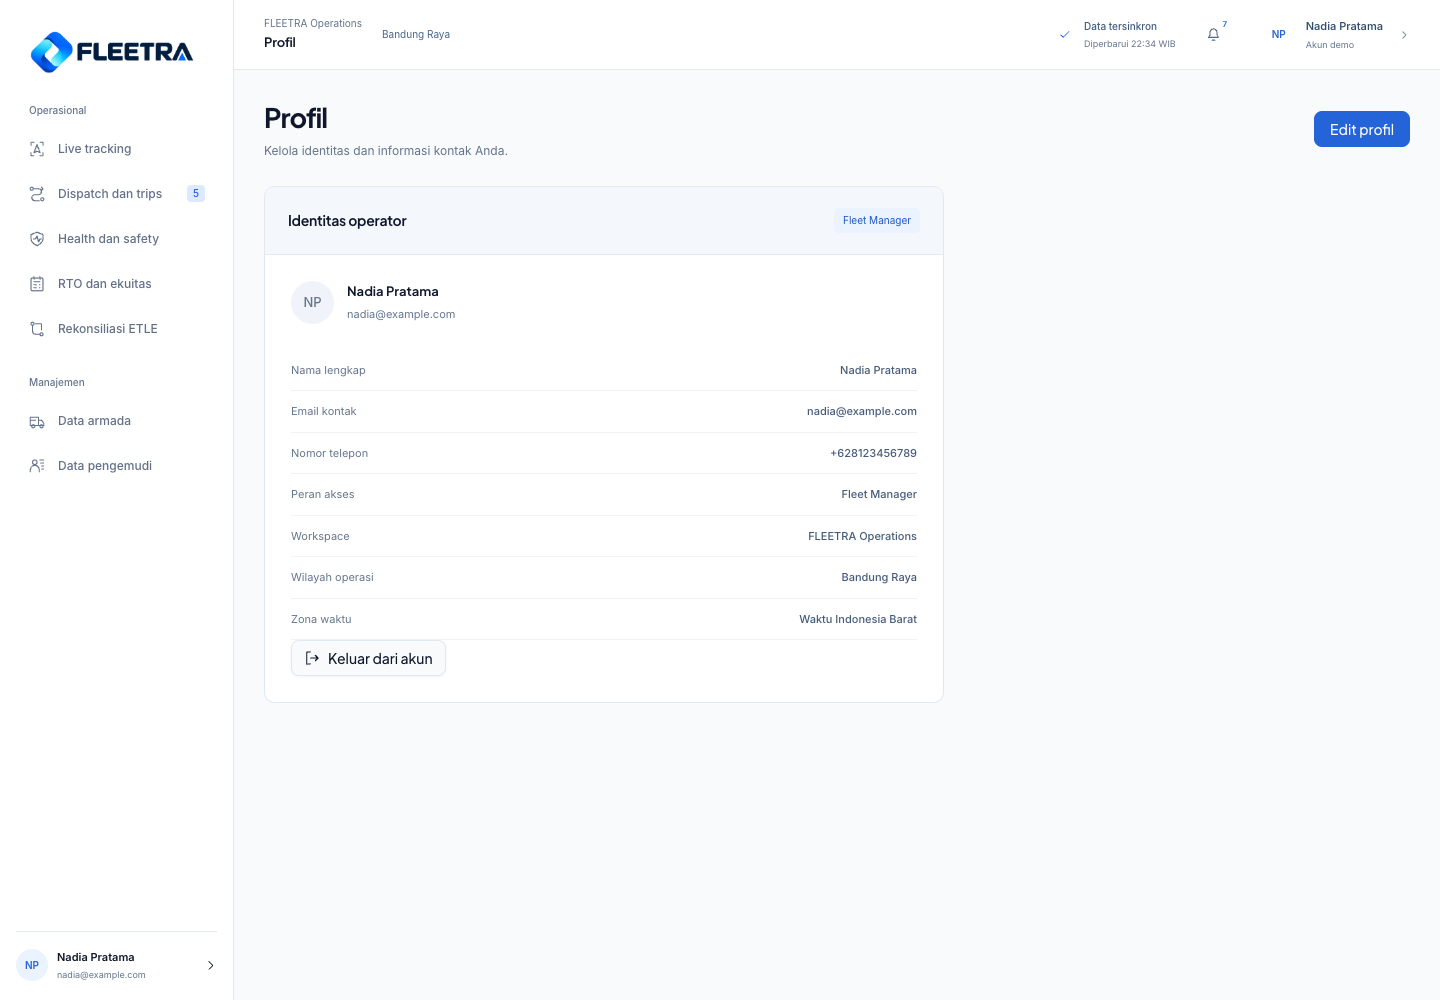
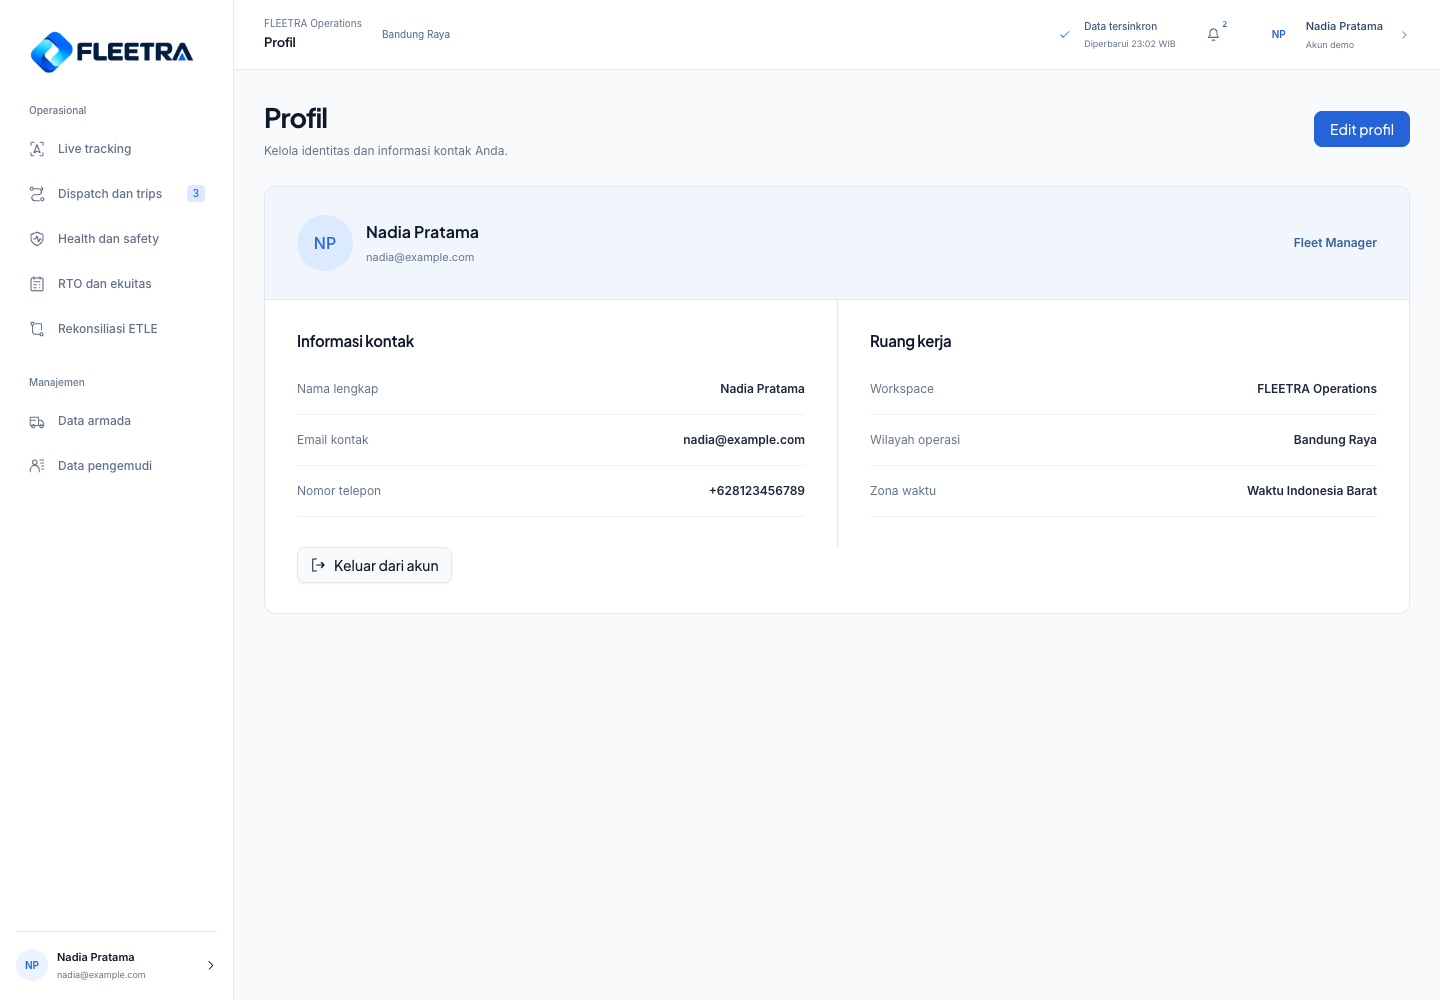
Refine operator profile layout

diff --git a/src/components/dashboard/profile.tsx b/src/components/dashboard/profile.tsx
@@ -151,19 +151,19 @@ export function Profile() {
       >
         <Button onClick={() => setEditing(true)}>Edit profil</Button>
       </PageHeading>
-      <section className="content-panel settings-panel">
-        <div className="section-heading">
-          <h2>Identitas operator</h2>
-          <span className="safety-source-tag">Fleet Manager</span>
-        </div>
+      <section className="content-panel profile-surface">
         <div className="settings-profile">
           <Initials name={profile.name} />
           <div>
             <h3>{profile.name}</h3>
             <p>{profile.email}</p>
           </div>
+          <span className="profile-role">Fleet Manager</span>
         </div>
-        <dl className="review-details">
+        <div className="profile-sections">
+        <section className="profile-section">
+          <h2>Informasi kontak</h2>
+          <dl className="profile-details">
           <div>
             <dt>Nama lengkap</dt>
             <dd>{profile.name}</dd>
@@ -176,10 +176,11 @@ export function Profile() {
             <dt>Nomor telepon</dt>
             <dd>{profile.phone || "Belum diisi"}</dd>
           </div>
-          <div>
-            <dt>Peran akses</dt>
-            <dd>Fleet Manager</dd>
-          </div>
+          </dl>
+        </section>
+        <section className="profile-section">
+          <h2>Ruang kerja</h2>
+          <dl className="profile-details">
           <div>
             <dt>Workspace</dt>
             <dd>FLEETRA Operations</dd>
@@ -192,11 +193,13 @@ export function Profile() {
             <dt>Zona waktu</dt>
             <dd>Waktu Indonesia Barat</dd>
           </div>
-        </dl>
-        <Button variant="outline" disabled={busy} onClick={logout}>
+          </dl>
+        </section>
+        </div>
+        <div className="profile-actions"><Button variant="outline" disabled={busy} onClick={logout}>
           <Icon name="logout" />
           {busy ? "Keluar dari workspace" : "Keluar dari akun"}
-        </Button>
+        </Button></div>
       </section>
       {editing && (
         <ProfileEditor profile={profile} onClose={() => setEditing(false)} />

diff --git a/src/app/globals.css b/src/app/globals.css
@@ -2251,6 +2251,37 @@
   color: #64748b;
   margin-top: 5px;
 }
+.profile-surface { overflow: hidden; }
+.profile-surface .settings-profile {
+  padding: 28px 32px;
+  background: #f1f6fd;
+  border-bottom: 1px solid #e2e8f0;
+}
+.profile-surface .settings-profile > .avatar {
+  width: 56px;
+  height: 56px;
+  background: #dbeafe;
+  color: #2463d8;
+  font-size: 16px;
+}
+.profile-surface .settings-profile h3 { font-size: 16px; }
+.profile-role { margin-left: auto; color: #36629c; font-size: 12px; font-weight: 600; }
+.profile-sections { display: grid; grid-template-columns: 1fr 1fr; }
+.profile-section { padding: 30px 32px; min-width: 0; }
+.profile-section + .profile-section { border-left: 1px solid #e2e8f0; }
+.profile-section h2 { font-size: 15px; margin-bottom: 12px; }
+.profile-details > div { display: flex; justify-content: space-between; gap: 20px; padding: 16px 0; border-bottom: 1px solid #edf1f6; }
+.profile-details dt { color: #64748b; font-size: 12px; }
+.profile-details dd { color: #1e293b; font-size: 12px; font-weight: 600; text-align: right; overflow-wrap: anywhere; }
+.profile-actions { padding: 0 32px 30px; }
+@media (max-width: 700px) {
+  .profile-surface .settings-profile { padding: 22px; flex-wrap: wrap; }
+  .profile-role { width: 100%; margin-left: 69px; }
+  .profile-sections { grid-template-columns: 1fr; }
+  .profile-section { padding: 24px 22px; }
+  .profile-section + .profile-section { border-left: 0; border-top: 1px solid #e2e8f0; }
+  .profile-actions { padding: 0 22px 24px; }
+}
 .settings-panel > .review-details {
   padding: 0 26px;
 }
